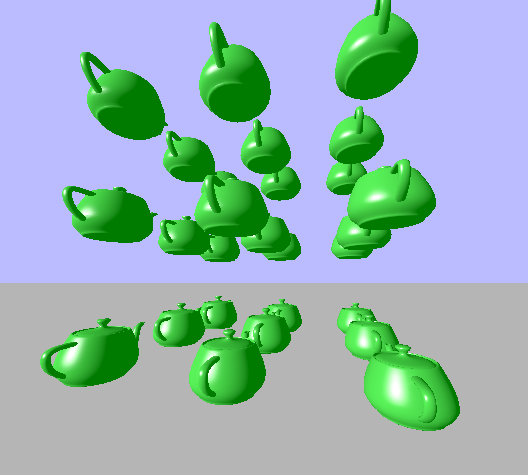
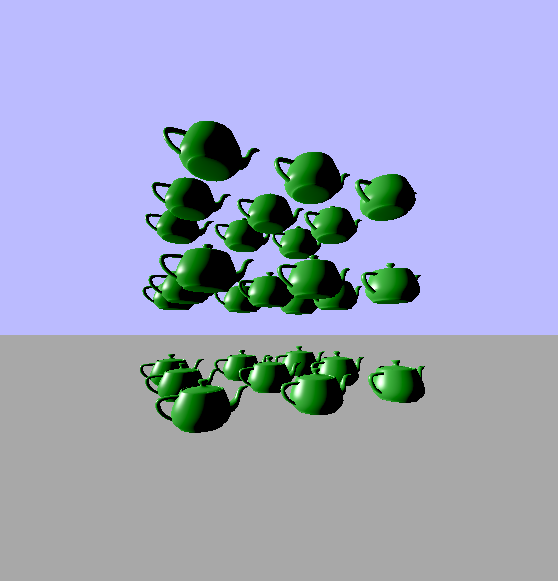
Fixup shader so colors are the same as they were with the previous shading model.
It might be wrong (probably is, really), but it looked a lot better.

diff --git a/src/shader_source.rs b/src/shader_source.rs
@@ -34,16 +34,15 @@ pub static FRAGMENT_SHADER_SRC: &'static str = r#"
 	varying vec3 v_position;
 
 	void main(void) {
-		float diffuse = max(dot(normalize(v_normal), normalize(v_light)), 0.0);
+
+		float brightness = dot(normalize(v_normal), normalize(v_light));
+		vec3 matte_color = mix(u_mat_ambient, u_mat_diffuse, brightness);
 
 		vec3 camera_dir = normalize(-v_position);
 		vec3 half_direction = normalize(normalize(v_light) + camera_dir);
 		float specular = pow(max(dot(half_direction, normalize(v_normal)), 0.0), 64.0);
 
-		gl_FragColor = vec4(u_mat_ambient +
-				diffuse * u_mat_diffuse +
-				specular * u_mat_specular,
-				1.0);
+		gl_FragColor = vec4(matte_color + (specular * u_mat_specular), 1.0);
 	}
 	"#;
 
